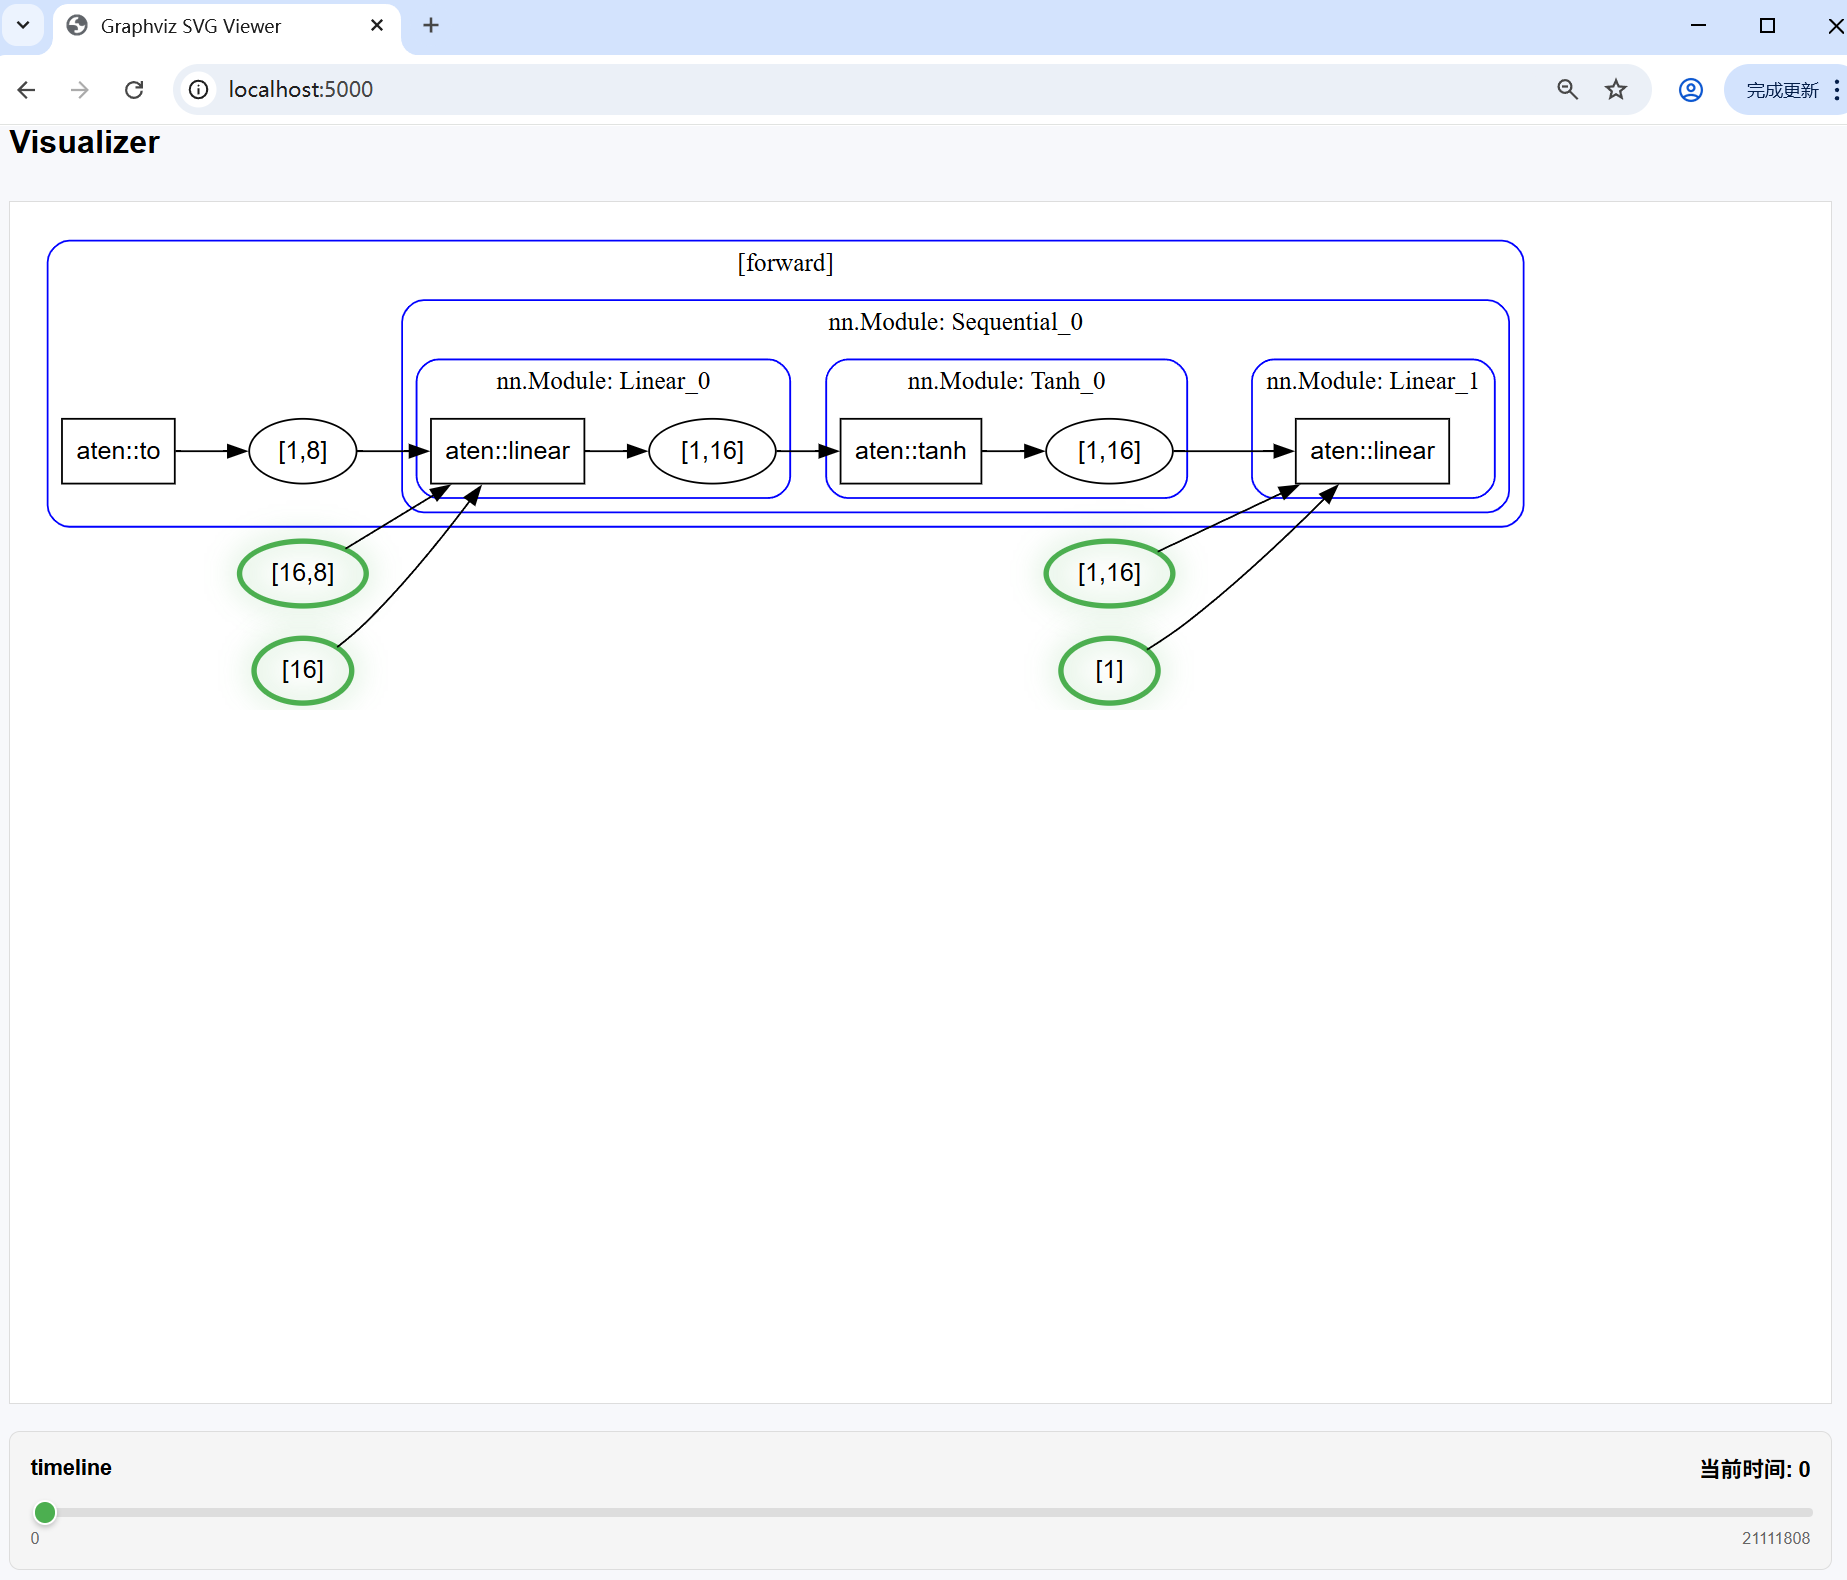
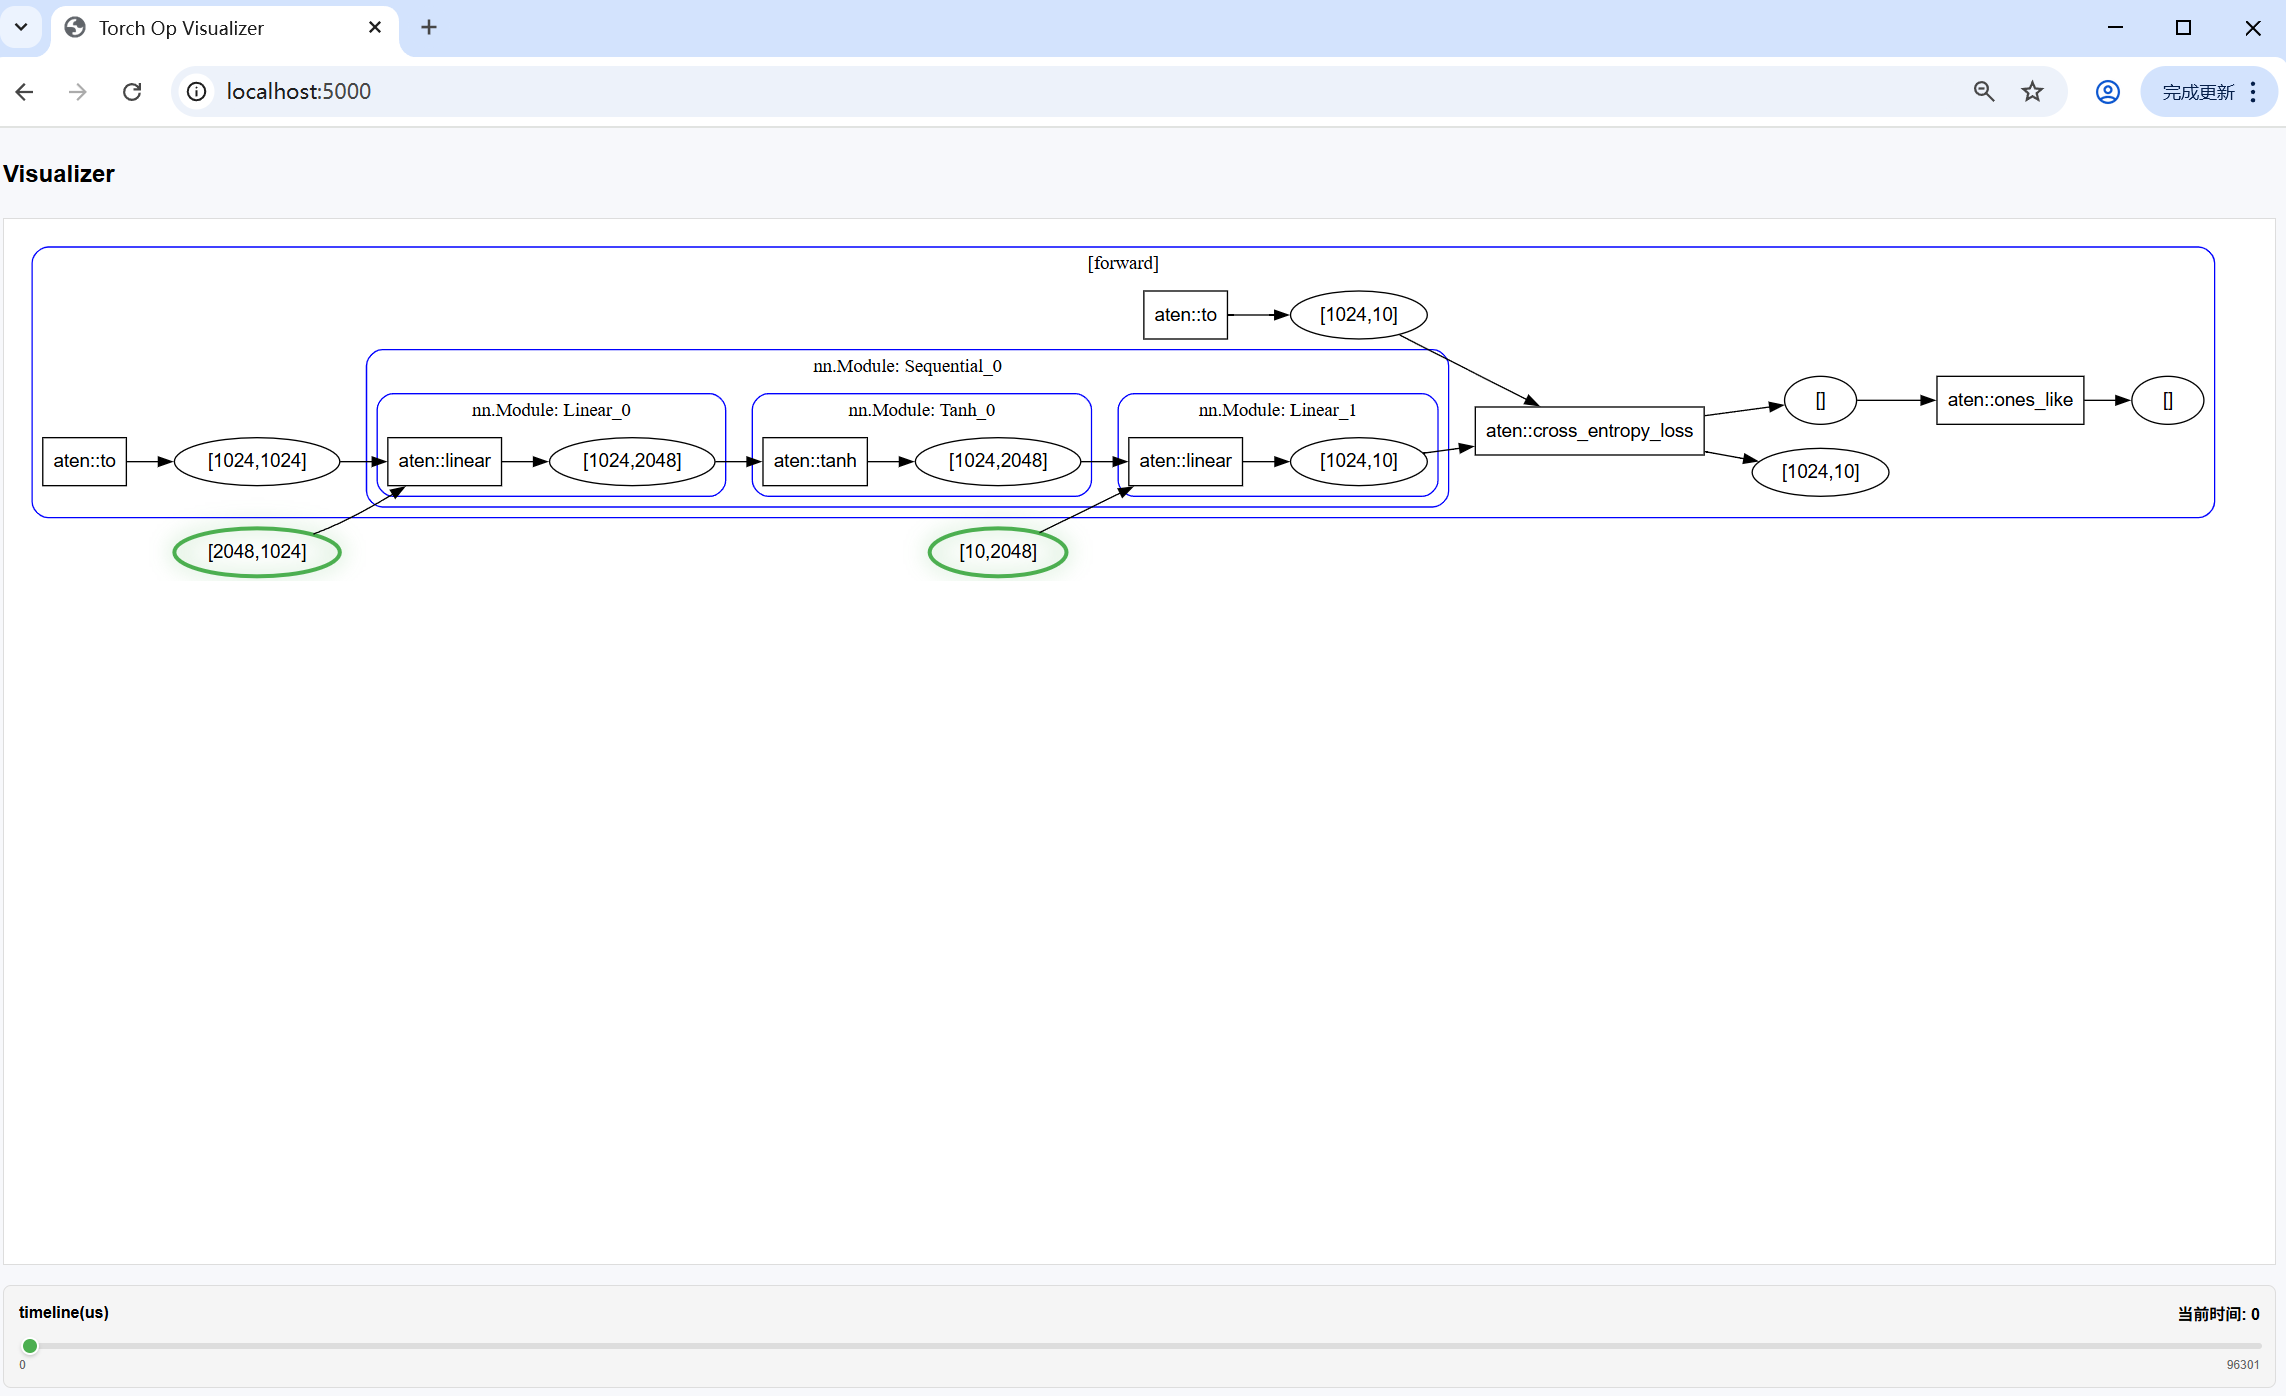
[Add] Do not show little tensor in graph

Changed region(s): [[0.0, 0.0, 1.0, 0.462], [0.9258, 0.9241, 0.9875, 0.9857], [0.0, 0.9241, 0.0617, 0.9857]]

diff --git a/src/torchopviz/server/static/js/visualizer.js b/src/torchopviz/server/static/js/visualizer.js
@@ -3,6 +3,7 @@ let maxTime = -1;
 let minTime = -1;
 let relativeMaxTime = -1;
 let relativeMinTime = -1;
+let sizeThreshold = 0;
 
 // *******************************************************************************************
 // node
@@ -30,6 +31,12 @@ class Node {
       this.info = "";
     }
 
+    // 隐藏tensor：屏蔽小tensor
+    this.is_hidden = false;
+    if (this.is_tensor && node_json?.info && node_json.info?.size && node_json.info.size<sizeThreshold) {
+      this.is_hidden = true;
+    }
+
     // 相对时间（会在 Graph 初始化时计算）
     this.relative_start_time = 0;
     this.relative_end_time = 0;
@@ -42,6 +49,11 @@ class Node {
 class Graph {
   constructor() {
     this.nodes = new Map();
+    this.roots = [];
+  }
+
+  setRoots() {
+    this.roots = [...this.nodes.values()].filter(n => n.parent===null).map(n=>n.id);
   }
 
   isLegalGraph() {
@@ -122,6 +134,54 @@ class Graph {
       }
     }
     return count === this.nodes.size;
+  }
+
+  hiddenTensor() {
+    const originRoots = [...this.nodes.values()].filter(n => n.parent===null).map(n=>n.id);
+    // 重建next_nodes关系
+    const dfs=(id)=>{
+      const node=this.nodes.get(id);
+      if(!node || node.is_tensor) return;
+      
+      const updated = new Set();
+      node.next_nodes.forEach(nid=>{
+        const targetNode = this.nodes.get(nid);
+        if (targetNode.is_hidden) {
+          // 是隐藏节点：将其 next_nodes 加入 updated（过滤 null/undefined）
+          targetNode.next_nodes.forEach(next=>{
+            updated.add(next);
+          });
+        } else {
+          updated.add(nid);
+        }
+      });
+      node.next_nodes=Array.from(updated);
+      (node.children||[]).forEach(c=>dfs(c));
+    }
+    originRoots.forEach(r=>{dfs(r);});
+
+    // 删除已屏蔽tensor
+    const dfs_delete=(id)=>{
+      const node=this.nodes.get(id);
+      if(!node) return false;
+      
+      if (node.is_tensor && node.is_hidden) {
+        this.nodes.delete(id);
+        return false;
+      }
+
+      // 递归处理 children，并过滤掉返回 false 的子节点
+      const validChildren = [];
+      node.children.forEach(childId=>{
+        const keep = dfs_delete(childId);
+        if (keep) {
+          validChildren.push(childId);
+        }
+      });
+      node.children = validChildren;
+      return true;
+    }
+    originRoots.forEach(r=>{dfs_delete(r);});
   }
 
   setRelativeTime() {
@@ -235,29 +295,114 @@ class Graph {
     ];
     return [...root_dot_lines.slice(0,-1),...node_dot_lines,...edges_dot_lines,...root_dot_lines.slice(-1)].join("\n");
   }
-  _get_out_tensors_of_collapse_node(root_id) {
-    const result=[];
-    const in_root=(node_id)=>{while(node_id!=null){if(node_id===root_id)return true;node_id=this.nodes.get(node_id)?.parent??null;}return false;}
-    const dfs=(nid)=>{const node=this.nodes.get(nid);if(!node)return;if(node.is_leaf){if(node.is_tensor && node.next_nodes.some(n=>!in_root(n)))result.push(nid);}else{node.children.forEach(c=>dfs(c));}};
-    dfs(root_id);return result;
+
+  _get_outputs_of_collapse_node(root_id) {
+    const output_tensors=[];
+    const output_ops=[];
+    const in_root=(node_id)=>{
+      while(node_id!=null){
+        if(node_id===root_id){
+          return true;
+        }
+        node_id=this.nodes.get(node_id)?.parent??null;
+      }
+      return false;
+    }
+    const dfs=(nid)=>{
+      const node=this.nodes.get(nid);
+      if(!node)return;
+      if(node.is_leaf){
+        // TODO: 这里some表示有一个节点不在本子树内就把tensor分出去，会造成单节点成环，与DAG假设不符
+        if(node.is_tensor && node.next_nodes.some(n=>!in_root(n))){
+          output_tensors.push(nid);
+          return;
+        } else {
+          node.next_nodes.forEach(id=>{
+            if(!in_root(id)){
+              output_ops.push(id);
+            }
+          });
+          return;
+        }
+      }else{
+        node.children.forEach(c=>dfs(c));
+      }
+    };
+    dfs(root_id);
+    return [output_tensors, output_ops];
   }
+
   generate_new_graph() {
     const new_graph = new Graph();
-    const roots = [...this.nodes.values()].filter(n => n.parent===null).map(n=>n.id);
+    const roots = [...this.roots];
     const dfs_build = (node_id) => {
-      const node=this.nodes.get(node_id);if(!node)return[];
-      if(node.is_leaf){new_graph.nodes.set(node_id, deepCopyNode(node)); return [];}
-      if(node.isCollapse){const c=deepCopyNode(node);c.is_leaf=true;c.children=[];c.next_nodes=this._get_out_tensors_of_collapse_node(node_id);new_graph.nodes.set(node_id,c);return c.next_nodes||[];}
-      new_graph.nodes.set(node_id, deepCopyNode(node)); let extra=[]; node.children.forEach(child=>{extra=extra.concat(dfs_build(child))});
-      extra.forEach(cid=>{const o=this.nodes.get(cid);if(o){const copy=deepCopyNode(o);copy.parent=node_id;new_graph.nodes.set(cid,copy)}})
-      const ngNode=new_graph.nodes.get(node_id); if(ngNode){ngNode.children=Array.from(new Set([...(ngNode.children||[]),...extra]))}
+      const node=this.nodes.get(node_id);
+      if(!node)return[];
+      if(node.is_leaf){
+        new_graph.nodes.set(node_id, deepCopyNode(node));
+        return [];
+      }
+      if(node.isCollapse){
+        const c=deepCopyNode(node);
+        c.is_leaf=true;
+        c.children=[];
+        const [output_tensors, output_ops] = this._get_outputs_of_collapse_node(node_id);
+        c.next_nodes=[...output_tensors, ...output_ops];
+        new_graph.nodes.set(node_id,c);
+        return output_tensors||[];
+      }
+      new_graph.nodes.set(node_id, deepCopyNode(node));
+      let extra=[];
+      node.children.forEach(child=>{extra=extra.concat(dfs_build(child))});
+
+      extra.forEach(cid=>{
+        const o=this.nodes.get(cid);
+        if(o){
+          const copy=deepCopyNode(o);
+          copy.parent=node_id;
+          new_graph.nodes.set(cid,copy);
+        }
+      })
+
+      const ngNode=new_graph.nodes.get(node_id);
+      if(ngNode){
+        ngNode.children=Array.from(new Set([...(ngNode.children||[]),...extra]));
+      }
       return [];
     };
-    let extra=[]; roots.forEach(r=>{extra=extra.concat(dfs_build(r))});
-    extra.forEach(cid=>{const o=this.nodes.get(cid);if(o){const copy=deepCopyNode(o);copy.parent=null;new_graph.nodes.set(cid,copy)}})
-    const find_ancestor=(nid)=>{while(nid!=null&&!new_graph.nodes.has(nid)){nid=this.nodes.get(nid)?.parent??null;}return nid;}
-    const dfs_edges=(nid)=>{const node=new_graph.nodes.get(nid);if(!node)return;const updated=new Set([...node.next_nodes].map(n=>find_ancestor(n)).filter(x=>x!=null));node.next_nodes=Array.from(updated);(node.children||[]).forEach(c=>dfs_edges(c));}
-    roots.forEach(r=>{if(new_graph.nodes.has(r))dfs_edges(r);});
+
+    let extra=[];
+    roots.forEach(r=>{
+      extra=extra.concat(dfs_build(r));
+    });
+
+    extra.forEach(cid=>{
+      const o=this.nodes.get(cid);
+      if(o){
+        const copy=deepCopyNode(o);
+        copy.parent=null;
+        new_graph.nodes.set(cid,copy);
+        roots.push(cid);
+      }
+    })
+    
+    const find_ancestor=(nid)=>{
+      while(nid!=null&&!new_graph.nodes.has(nid)){
+        nid=this.nodes.get(nid)?.parent??null;
+      }
+      return nid;
+    }
+
+    const dfs_edges=(nid)=>{
+      const node=new_graph.nodes.get(nid);
+      if(!node) return;
+      const updated=new Set([...node.next_nodes].map(n=>find_ancestor(n)).filter(x=>x!=null));
+      node.next_nodes=Array.from(updated);
+      (node.children||[]).forEach(c=>dfs_edges(c));
+    }
+    roots.forEach(r=>{
+      if(new_graph.nodes.has(r))dfs_edges(r);
+    });
     return new_graph;
   }
 }
@@ -577,6 +722,12 @@ async function loadFromNodesJson(nodes_json) {
     return;
   }
 
+  // 隐藏小tensor
+  originGraph.hiddenTensor();
+
+  // 初始化根节点
+  originGraph.setRoots();
+
   // 初始化时间条管理器
   if (!timelineManager) {
     timelineManager = new TimelineManager();
@@ -588,6 +739,13 @@ async function loadFromNodesJson(nodes_json) {
 
 window.addEventListener("DOMContentLoaded", async () => {
   try {
+    const config_res = await fetch("/config");
+    if (!config_res.ok) {
+      throw new Error("failed to load config");
+    }
+    const config = await config_res.json();
+    sizeThreshold = config.size_threshold;
+
     const res = await fetch("/data");
     if (!res.ok) {
       throw new Error("failed to load data");

diff --git a/src/torchopviz/server/templates/index.html b/src/torchopviz/server/templates/index.html
@@ -2,7 +2,7 @@
 <html lang="zh-CN">
 <head>
   <meta charset="utf-8" />
-  <title>Graphviz SVG Viewer</title>
+  <title>Torch Op Visualizer</title>
   <meta name="viewport" content="width=device-width, initial-scale=1" />
   <style>
     body {

diff --git a/src/torchopviz/launch_server.py b/src/torchopviz/launch_server.py
@@ -14,8 +14,14 @@ def get_resource_path(package, resource_dir):
     return str(path)
 
 
-def launch_visualizer(data, port=5000):
-    base_dir = os.path.abspath(os.path.dirname(__file__))
+def launch_visualizer(data, port: int = 5000, threshold: float = 0.0):
+    """
+    Launch visualizer to visualize graph
+    
+    :data: json data
+    :port: port number
+    :threshold: the tensors whose memory size is below [threshold] MB will be discard.
+    """
     app = Flask(
         __name__,
         template_folder=get_resource_path(package_name, "server/templates"),
@@ -25,6 +31,12 @@ def launch_visualizer(data, port=5000):
     @app.route("/data")
     def get_data():
         return data
+    
+    @app.route("/config")
+    def get_config():
+        return {
+            "size_threshold": int(threshold*1024*1024),
+        }
 
     @app.route('/')
     def index():

diff --git a/examples/fwd_bwd_viz.py b/examples/fwd_bwd_viz.py
@@ -42,14 +42,14 @@ def generate_data(model, input, label):
 
 # Initialize model
 model = nn.Sequential()
-model.add_module('W0', nn.Linear(8, 16, bias=False))
+model.add_module('W0', nn.Linear(1024, 2048, bias=False))
 model.add_module('tanh', nn.Tanh())
-model.add_module('W1', nn.Linear(16, 2, bias=False))
+model.add_module('W1', nn.Linear(2048, 10, bias=False))
 model = model.to()
 
 # Initialize data
-data = torch.randn(1,8)
-label = torch.randn(1,2)
+data = torch.randn(1024, 1024)
+label = torch.randn(1024, 10)
 
 # Init torchopviz
 init(save_dir=".", save_backward=True)
@@ -59,7 +59,7 @@ generate_data(model, data, label)
 
 # Launch server
 json_data = load_data("./complex_graph.json")
-launch_visualizer(json_data)
+launch_visualizer(json_data, port=5000, threshold=1.0)
 
 try:
     while True:

diff --git a/src/torchopviz/utils.py b/src/torchopviz/utils.py
@@ -5,6 +5,11 @@ from .log import logger
 from .memory_profile import memory_profile_monkey_patch
 
 def load_data(file:str):
+    """
+    Load json file
+    
+    :file: file path
+    """
     logger.info(f"load json file: {os.path.abspath(file)}\n")
     try:
         with open(file, "r", encoding="utf-8") as f:
@@ -19,5 +24,11 @@ def load_data(file:str):
 
 
 def init(save_dir: str, save_backward: bool = False):
+    """
+    Initialize torchopviz
+
+    :save_dir: the directory to save json data
+    :save_backward: visualize backward process
+    """
     dir = os.path.abspath(save_dir)
     memory_profile_monkey_patch(dir, save_backward)
